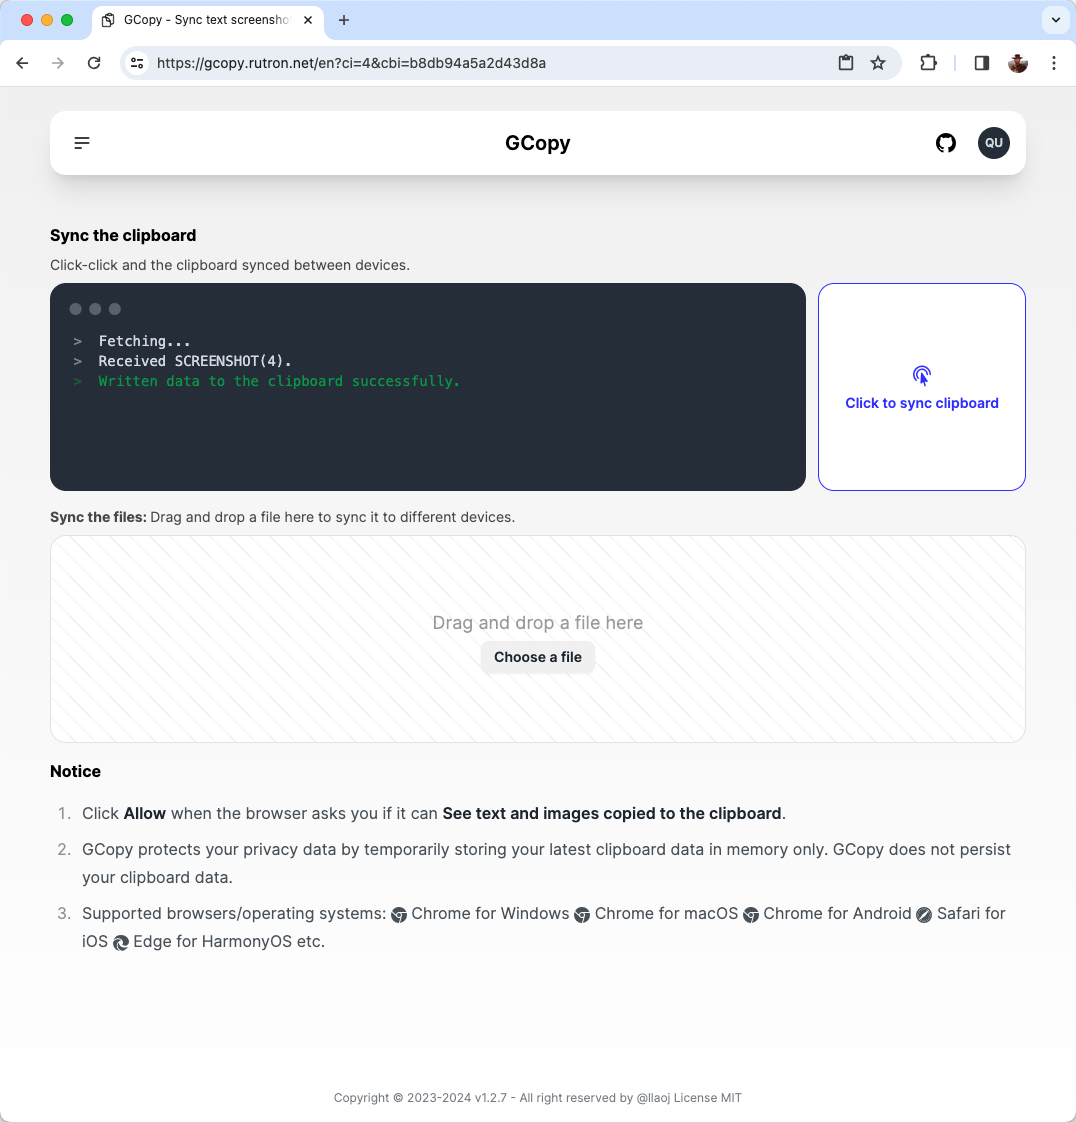
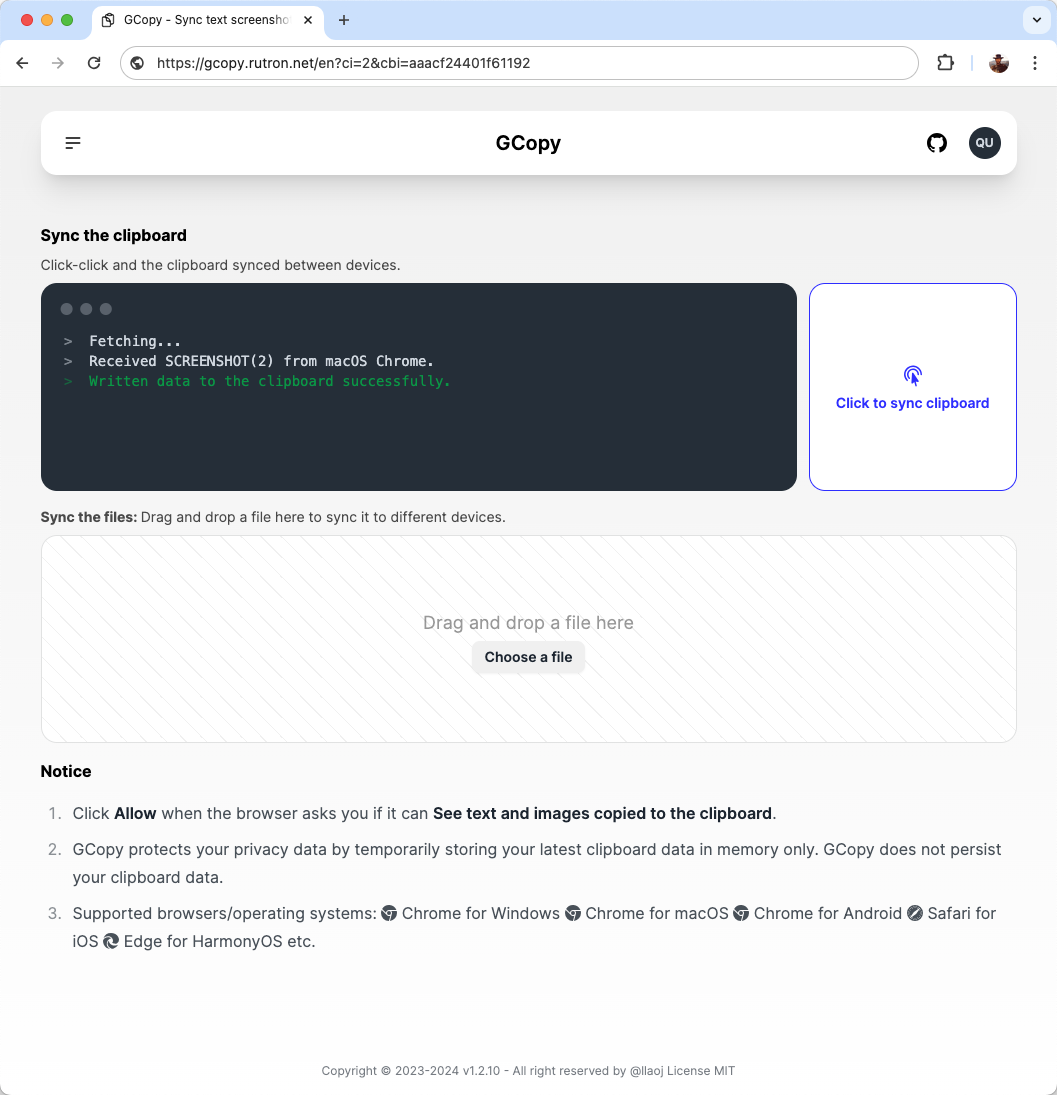
Add client name into verification email.

diff --git a/frontend/components/sync-clipboard.tsx b/frontend/components/sync-clipboard.tsx
@@ -125,7 +125,7 @@ export default function SyncClipboard() {
       t("logs.received", {
         type: t(xtype),
         index: xindex,
-        clientname: xclientname ?? "unknown",
+        clientname: xclientname ?? "UNKNOWN",
       }),
     );
 

diff --git a/internal/server/user.go b/internal/server/user.go
@@ -34,27 +34,27 @@ func (s *Server) emailCodeHandler(c *gin.Context) {
 	}
 	ua := useragent.Parse(c.Request.Header.Get("User-Agent"))
 	language := c.Request.Header.Get("Accept-Language")
-	var subject, body, clientName string
+	var subject, body string
 	if strings.HasPrefix(language, "zh-CN") {
 		subject = fmt.Sprintf("%s是您的验证码", code)
+		body = fmt.Sprintf("请输入您的验证码: %s. 该验证码有效期5分钟. 为保护您的账户, 请不要分享这个验证码.", code)
 		if ua.OS != "" {
-			clientName = "该请求由 " + ua.OS
+			body += "<br>请求自 " + ua.OS
 			if ua.Name != "" {
-				clientName += fmt.Sprintf(" %s", ua.Name)
+				body += fmt.Sprintf(" %s", ua.Name)
 			}
-			clientName += " 发送.<br>"
+			body += "."
 		}
-		body = fmt.Sprintf("请输入您的验证码: %s. 该验证码有效期5分钟.<br>%s为保护您的账户, 请不要分享这个验证码.", code, clientName)
 	} else {
 		subject = fmt.Sprintf("%s is your verification code", code)
+		body = fmt.Sprintf("Enter the verification code when prompted: %s. Code will expire in 5 minutes. To protect your account, do not share this code.", code)
 		if ua.OS != "" {
-			clientName = "Requested from " + ua.OS
+			body += "<br>Requested from " + ua.OS
 			if ua.Name != "" {
-				clientName += fmt.Sprintf(" %s", ua.Name)
+				body += fmt.Sprintf(" %s", ua.Name)
 			}
-			clientName += ".<br>"
+			body += "."
 		}
-		body = fmt.Sprintf("Enter the verification code when prompted: %s. Code will expire in 5 minutes.<br>%sTo protect your account, do not share this code.", code, clientName)
 	}
 	message := gomail.NewMessage()
 	message.SetHeader("From", message.FormatAddress(s.config.SMTPSender, "GCopy"))
